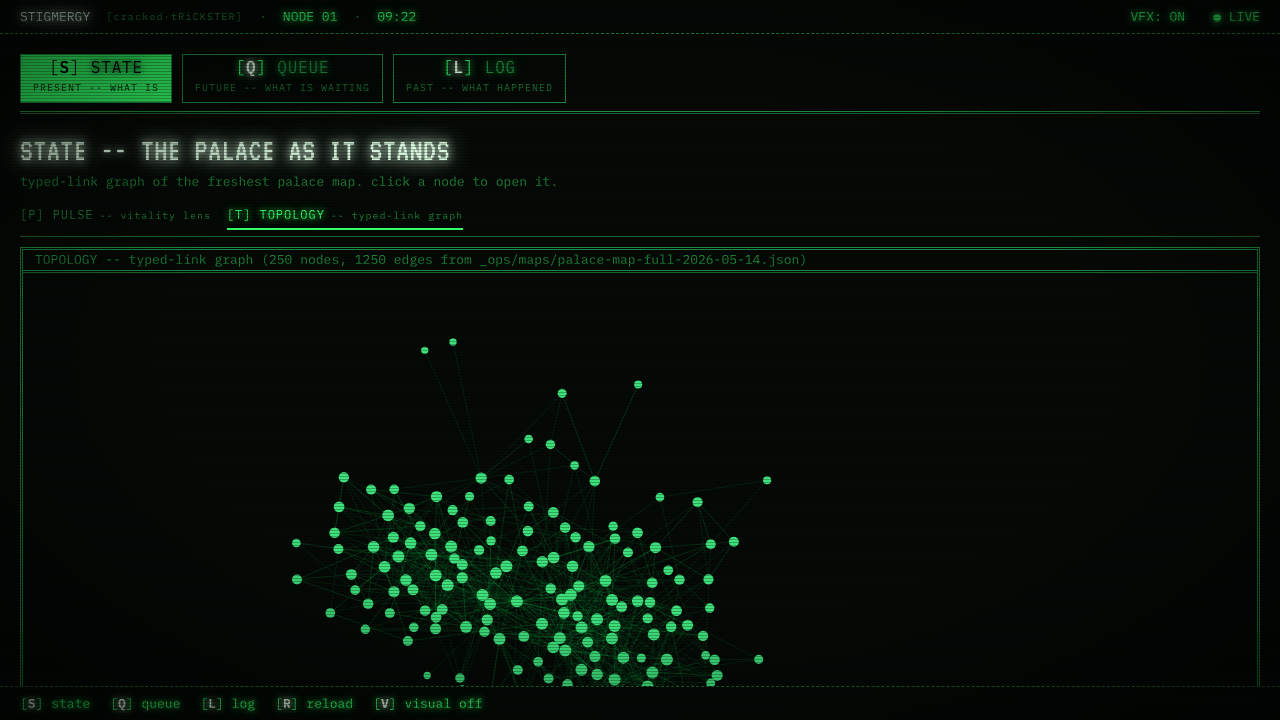
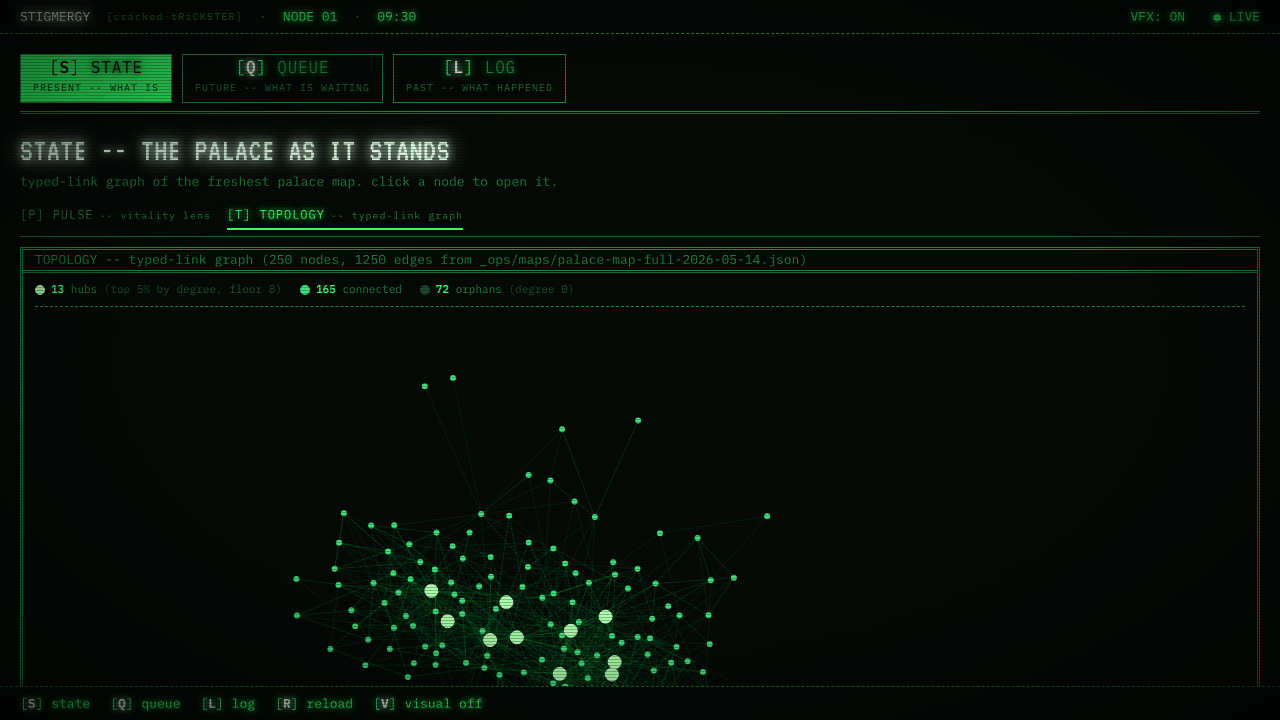
ops(stigmergy): Topology Lens: hub / orphan visual differentiation
Palace-Kind: ops
Palace-Verify: gate 18 green (vitest 38, e2e 11, captures 2); full vitest 735 pass
Palace-Author: claude

Palace-Annotated: commit-msg-hook

diff --git a/_ops/stigmergy/app/src/components/state/TopologyLens.jsx b/_ops/stigmergy/app/src/components/state/TopologyLens.jsx
@@ -4,6 +4,7 @@ import {
 } from 'd3-force';
 import { Box } from '../primitives.jsx';
 import { fetchTopology } from '../../adapters/topology.js';
+import { assignRoles, roleCounts } from '../../lib/topology-roles.js';
 
 // TOPOLOGY -- the typed-link graph lens. Renders the freshest
 // palace-map-full-*.json as a force-directed canvas. Clicking a node
@@ -19,10 +20,21 @@ const HEIGHT = 720;
 const NODE_RADIUS = 3;
 const HOVER_RADIUS = 6;
 
+// Per-role visual: { fill, ring, radius }. Stays in JS (canvas can't read
+// CSS vars directly) — keep aligned with --phosphor / --phosphor-bright /
+// --phosphor-dim and the ANSI accent tokens.
+const ROLE_STYLE = {
+  hub:     { fill: '#aaffaa', ring: '#ccffcc', radius: 6.5 },
+  default: { fill: '#3ee07c', ring: null,      radius: 3.0 },
+  orphan:  { fill: '#1a4a30', ring: null,      radius: 2.0 },
+};
+const HOVER_FILL = '#ffffff';
+const HOVER_RING = '#aaffff';
+
 function prepareGraph(raw) {
   // d3-force will mutate source/target on the link objects (string -> node
   // object). Clone everything so the input data stays untouched.
-  const nodes = (raw?.nodes ?? []).map((n) => ({
+  const baseNodes = (raw?.nodes ?? []).map((n) => ({
     id: n.id,
     path: n.path,
     type: n.type ?? null,
@@ -31,6 +43,7 @@ function prepareGraph(raw) {
     inbound: n.inbound_count ?? 0,
     degree: (n.outbound_count ?? 0) + (n.inbound_count ?? 0),
   }));
+  const nodes = assignRoles(baseNodes);
   const ids = new Set(nodes.map((n) => n.id));
   // Drop ghost edges (targets that don't exist as nodes) so d3-force doesn't
   // throw on link resolution. The map's meta.ghost_taxonomy explains them.
@@ -57,6 +70,14 @@ export default function TopologyLens({ onSelect }) {
     });
     return () => { cancelled = true; };
   }, []);
+
+  // Role counts are derived from the prepared graph; we recompute here
+  // (cheap) so the legend renders before the canvas useEffect mounts.
+  const roleStats = useMemo(() => {
+    if (state.kind !== 'ok') return null;
+    const g = prepareGraph(state.raw);
+    return roleCounts(g.nodes);
+  }, [state]);
 
   useEffect(() => {
     if (state.kind !== 'ok') return;
@@ -93,20 +114,20 @@ export default function TopologyLens({ onSelect }) {
         ctx.lineTo(t.x, t.y);
       }
       ctx.stroke();
-      // nodes
+      // nodes — role-driven size + color; hover overrides both.
       for (const n of graph.nodes) {
         if (typeof n.x !== 'number') continue;
         const isHover = hoverRef.current && hoverRef.current.id === n.id;
-        const r = isHover ? HOVER_RADIUS : NODE_RADIUS + Math.min(3, Math.log2(n.degree + 1) / 1.5);
+        const style = ROLE_STYLE[n.role] ?? ROLE_STYLE.default;
+        const r = isHover ? HOVER_RADIUS : style.radius;
         ctx.beginPath();
         ctx.arc(n.x, n.y, r, 0, Math.PI * 2);
-        ctx.fillStyle = isHover ? 'var(--phosphor-bright)' : '#00ff66';
-        // CSS vars don't resolve inside canvas; use literal values.
-        ctx.fillStyle = isHover ? '#aaffaa' : '#3ee07c';
+        ctx.fillStyle = isHover ? HOVER_FILL : style.fill;
         ctx.fill();
-        if (isHover) {
-          ctx.lineWidth = 1.5;
-          ctx.strokeStyle = '#aaffff';
+        const ringColor = isHover ? HOVER_RING : style.ring;
+        if (ringColor) {
+          ctx.lineWidth = isHover ? 1.5 : 1;
+          ctx.strokeStyle = ringColor;
           ctx.stroke();
         }
       }
@@ -134,7 +155,9 @@ export default function TopologyLens({ onSelect }) {
       const n = nodeAt(ev.clientX, ev.clientY);
       if (n !== hoverRef.current) {
         hoverRef.current = n;
-        setHoverInfo(n ? { id: n.id, type: n.type, stage: n.stage, degree: n.degree, path: n.path } : null);
+        setHoverInfo(n ? {
+          id: n.id, type: n.type, stage: n.stage, degree: n.degree, role: n.role, path: n.path,
+        } : null);
         // re-draw immediately so hover feedback isn't tied to sim tick
         draw();
       }
@@ -180,6 +203,7 @@ export default function TopologyLens({ onSelect }) {
   const edgeCount = state.meta?.edge_count ?? '?';
   return (
     <Box title={`TOPOLOGY  --  typed-link graph  (${nodeCount} nodes, ${edgeCount} edges from ${state.source ?? '?'})`} tone="double">
+      <Legend roleStats={roleStats} />
       <div style={{ position: 'relative' }}>
         <canvas
           data-testid="topology-canvas"
@@ -195,11 +219,38 @@ export default function TopologyLens({ onSelect }) {
           }}>
             <div><strong>{hoverInfo.id}</strong></div>
             <div style={{ color: 'var(--phosphor-dim)', textShadow: 'none' }}>
-              {hoverInfo.type ?? '--'} · {hoverInfo.stage ?? '--'} · degree {hoverInfo.degree}
+              {hoverInfo.type ?? '--'} · {hoverInfo.stage ?? '--'} · degree {hoverInfo.degree} · {hoverInfo.role}
             </div>
           </div>
         ) : null}
       </div>
     </Box>
+  );
+}
+
+function Dot({ style }) {
+  return (
+    <span style={{
+      display: 'inline-block', width: 10, height: 10, borderRadius: '50%',
+      background: style.fill,
+      border: style.ring ? `1px solid ${style.ring}` : 'none',
+      marginRight: 6, verticalAlign: 'middle',
+    }} />
+  );
+}
+
+function Legend({ roleStats }) {
+  if (!roleStats) return null;
+  return (
+    <div data-testid="topology-legend" style={{
+      display: 'flex', gap: 18, alignItems: 'center',
+      fontSize: 11, color: 'var(--phosphor-dim)', textShadow: 'none',
+      marginBottom: 8, paddingBottom: 6,
+      borderBottom: '1px dashed var(--phosphor-dim)',
+    }}>
+      <span><Dot style={ROLE_STYLE.hub} /><strong style={{ color: 'var(--phosphor)' }}>{roleStats.hub}</strong> hubs <span style={{ opacity: 0.6 }}>(top 5% by degree, floor 8)</span></span>
+      <span><Dot style={ROLE_STYLE.default} /><strong style={{ color: 'var(--phosphor)' }}>{roleStats.default}</strong> connected</span>
+      <span><Dot style={ROLE_STYLE.orphan} /><strong style={{ color: 'var(--phosphor)' }}>{roleStats.orphan}</strong> orphans <span style={{ opacity: 0.6 }}>(degree 0)</span></span>
+    </div>
   );
 }

diff --git a/_ops/stigmergy/app/tests/unit/topology-roles.test.js b/_ops/stigmergy/app/tests/unit/topology-roles.test.js
@@ -1,0 +1,70 @@
+import { describe, it, expect } from 'vitest';
+import {
+  assignRoles, degreeThreshold, roleCounts,
+} from '../../src/lib/topology-roles.js';
+
+function mkNodes(degrees) {
+  return degrees.map((d, i) => ({ id: `n${i}`, degree: d }));
+}
+
+describe('degreeThreshold', () => {
+  it('returns the 95th-percentile degree when above the floor', () => {
+    // 100 nodes with degrees 1..100 -- 95th percentile = 96
+    const degrees = Array.from({ length: 100 }, (_, i) => i + 1);
+    expect(degreeThreshold(degrees, 0.95)).toBe(96);
+  });
+  it('clamps to the hub floor of 8 when percentile is below it', () => {
+    // 10 nodes, mostly low-degree; 95th-pct would be tiny but floor=8
+    const degrees = [0, 0, 1, 1, 2, 2, 3, 3, 4, 5];
+    expect(degreeThreshold(degrees)).toBe(8);
+  });
+  it('returns Infinity for empty / non-array input (no hubs)', () => {
+    expect(degreeThreshold([])).toBe(Infinity);
+    expect(degreeThreshold(null)).toBe(Infinity);
+  });
+});
+
+describe('assignRoles', () => {
+  it('marks degree-0 nodes as orphans', () => {
+    const out = assignRoles(mkNodes([0, 1, 0, 5]));
+    expect(out.map((n) => n.role)).toEqual(['orphan', 'default', 'orphan', 'default']);
+  });
+  it('marks high-degree nodes (>= 95th percentile, floor 8) as hubs', () => {
+    // 20 nodes with one outlier degree 20; the rest are degree 1-5.
+    const degrees = [1,2,3,4,5,1,2,3,4,5,1,2,3,4,5,1,2,3,4,20];
+    const out = assignRoles(mkNodes(degrees));
+    const hubs = out.filter((n) => n.role === 'hub');
+    expect(hubs.length).toBe(1);
+    expect(hubs[0].degree).toBe(20);
+  });
+  it('does NOT mark mid-degree nodes as hubs (floor of 8 applies)', () => {
+    // 10 nodes all degree 5 -- nothing crosses the floor, no hubs.
+    const out = assignRoles(mkNodes([5,5,5,5,5,5,5,5,5,5]));
+    expect(out.every((n) => n.role === 'default')).toBe(true);
+  });
+  it('returns [] for non-array input', () => {
+    expect(assignRoles(null)).toEqual([]);
+  });
+  it('preserves original node fields', () => {
+    const [first] = assignRoles([{ id: 'X', path: 'X.md', degree: 0, type: 'concept' }]);
+    expect(first).toMatchObject({ id: 'X', path: 'X.md', type: 'concept', role: 'orphan' });
+  });
+});
+
+describe('roleCounts', () => {
+  it('buckets nodes by role', () => {
+    const nodes = [
+      { role: 'hub' }, { role: 'hub' },
+      { role: 'orphan' }, { role: 'orphan' }, { role: 'orphan' },
+      { role: 'default' }, { role: 'default' },
+    ];
+    expect(roleCounts(nodes)).toEqual({ hub: 2, orphan: 3, default: 2 });
+  });
+  it('treats missing role as default', () => {
+    expect(roleCounts([{}, {}])).toEqual({ hub: 0, orphan: 0, default: 2 });
+  });
+  it('returns zero counts for empty input', () => {
+    expect(roleCounts([])).toEqual({ hub: 0, orphan: 0, default: 0 });
+    expect(roleCounts(null)).toEqual({ hub: 0, orphan: 0, default: 0 });
+  });
+});

diff --git a/_ops/stigmergy/app/src/lib/topology-roles.js b/_ops/stigmergy/app/src/lib/topology-roles.js
@@ -1,0 +1,40 @@
+// Topology roles — derive 'hub' / 'orphan' / 'default' from each node's
+// degree. Pure function on a node array (each node has `degree`); the
+// renderer consumes the role to pick a size + color.
+//
+// Hubs are the top-N most-connected nodes (default: 95th percentile, with
+// a floor of 8 connections — a degree of 2 in a small palace is not a hub).
+// Orphans are nodes with zero connections. Everything else is 'default'.
+
+const DEFAULT_PERCENTILE = 0.95;
+const HUB_FLOOR = 8;
+
+export function degreeThreshold(degrees, percentile = DEFAULT_PERCENTILE) {
+  if (!Array.isArray(degrees) || degrees.length === 0) return Infinity;
+  const sorted = [...degrees].sort((a, b) => a - b);
+  const idx = Math.min(sorted.length - 1, Math.floor(sorted.length * percentile));
+  return Math.max(HUB_FLOOR, sorted[idx]);
+}
+
+export function assignRoles(nodes, { percentile = DEFAULT_PERCENTILE } = {}) {
+  if (!Array.isArray(nodes)) return [];
+  const degrees = nodes.map((n) => n.degree ?? 0);
+  const threshold = degreeThreshold(degrees, percentile);
+  return nodes.map((n) => {
+    const d = n.degree ?? 0;
+    let role = 'default';
+    if (d === 0) role = 'orphan';
+    else if (d >= threshold) role = 'hub';
+    return { ...n, role };
+  });
+}
+
+// Bucket counts for the legend, so the UI can show "5 hubs / 12 orphans"
+// without recomputing.
+export function roleCounts(nodes) {
+  const out = { hub: 0, orphan: 0, default: 0 };
+  for (const n of nodes ?? []) {
+    out[n.role ?? 'default'] += 1;
+  }
+  return out;
+}

diff --git a/_ops/stigmergy/app/tests/e2e/topology-lens.spec.js b/_ops/stigmergy/app/tests/e2e/topology-lens.spec.js
@@ -27,6 +27,16 @@ test.describe('STATE deck — Topology Lens (Phase 5.5)', () => {
     await expect(heading).toBeVisible();
   });
 
+  test('the legend reports hub / connected / orphan counts', async ({ page }) => {
+    await page.goto('/?deck=STATE');
+    await page.getByTestId('state-lens-topology').click();
+    const legend = page.getByTestId('topology-legend');
+    await expect(legend).toBeVisible({ timeout: 15_000 });
+    await expect(legend).toContainText(/\d+\s+hubs/);
+    await expect(legend).toContainText(/\d+\s+connected/);
+    await expect(legend).toContainText(/\d+\s+orphans/);
+  });
+
   test('hovering a node surfaces a tooltip with its id and degree', async ({ page }) => {
     await page.goto('/?deck=STATE');
     await page.getByTestId('state-lens-topology').click();

diff --git a/_ops/stigmergy/app/scripts/check-phase.js b/_ops/stigmergy/app/scripts/check-phase.js
@@ -217,7 +217,7 @@ const PHASES = {
   18: {
     label: 'v1.0 Phase 5.5 — Topology Lens',
     vitest: [
-      'topology.test.js', 'entry-sort.test.js', 'pulse.test.js',
+      'topology.test.js', 'topology-roles.test.js', 'entry-sort.test.js', 'pulse.test.js',
     ],
     playwright: [
       'boot.spec.js', 'tokens.spec.js', 'topology-lens.spec.js',
